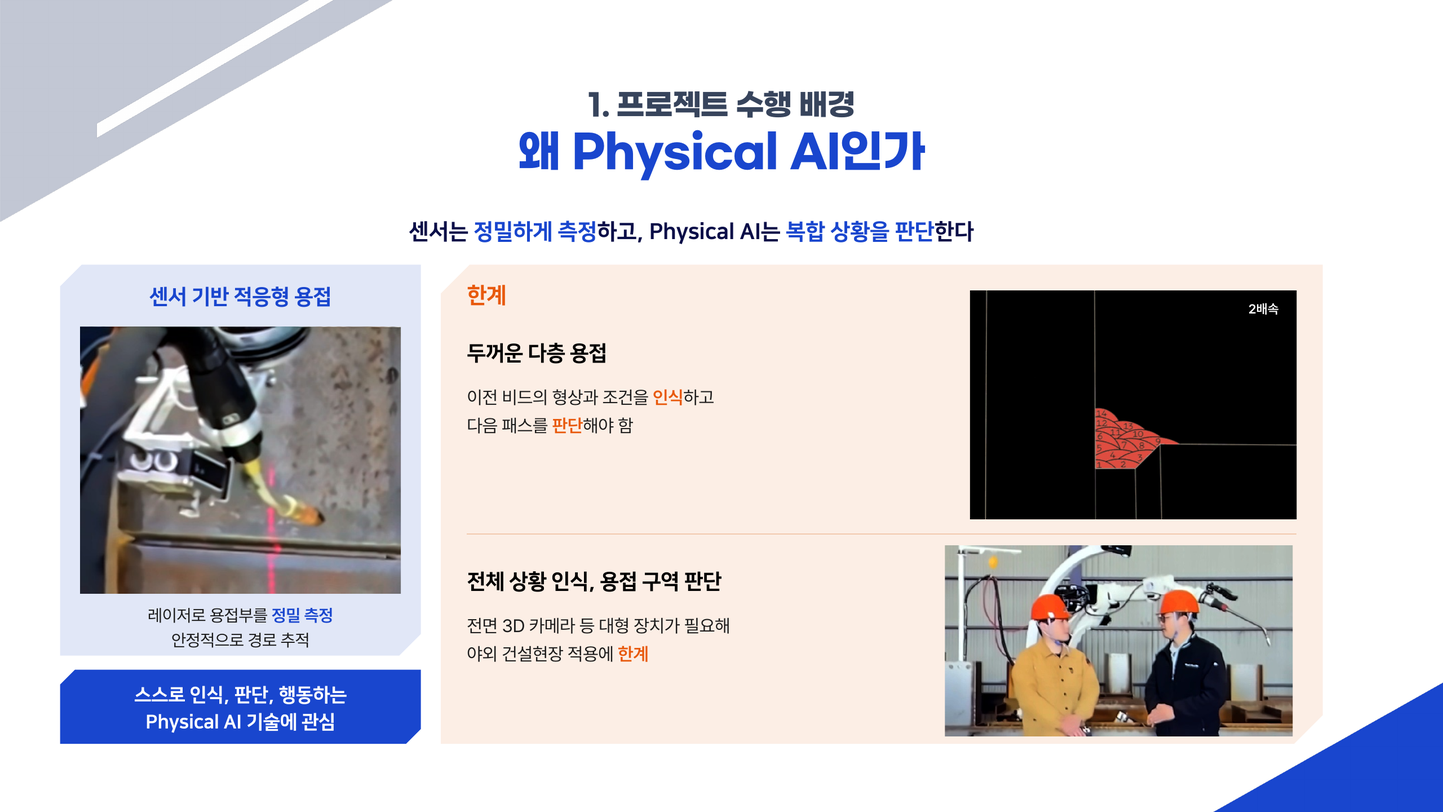
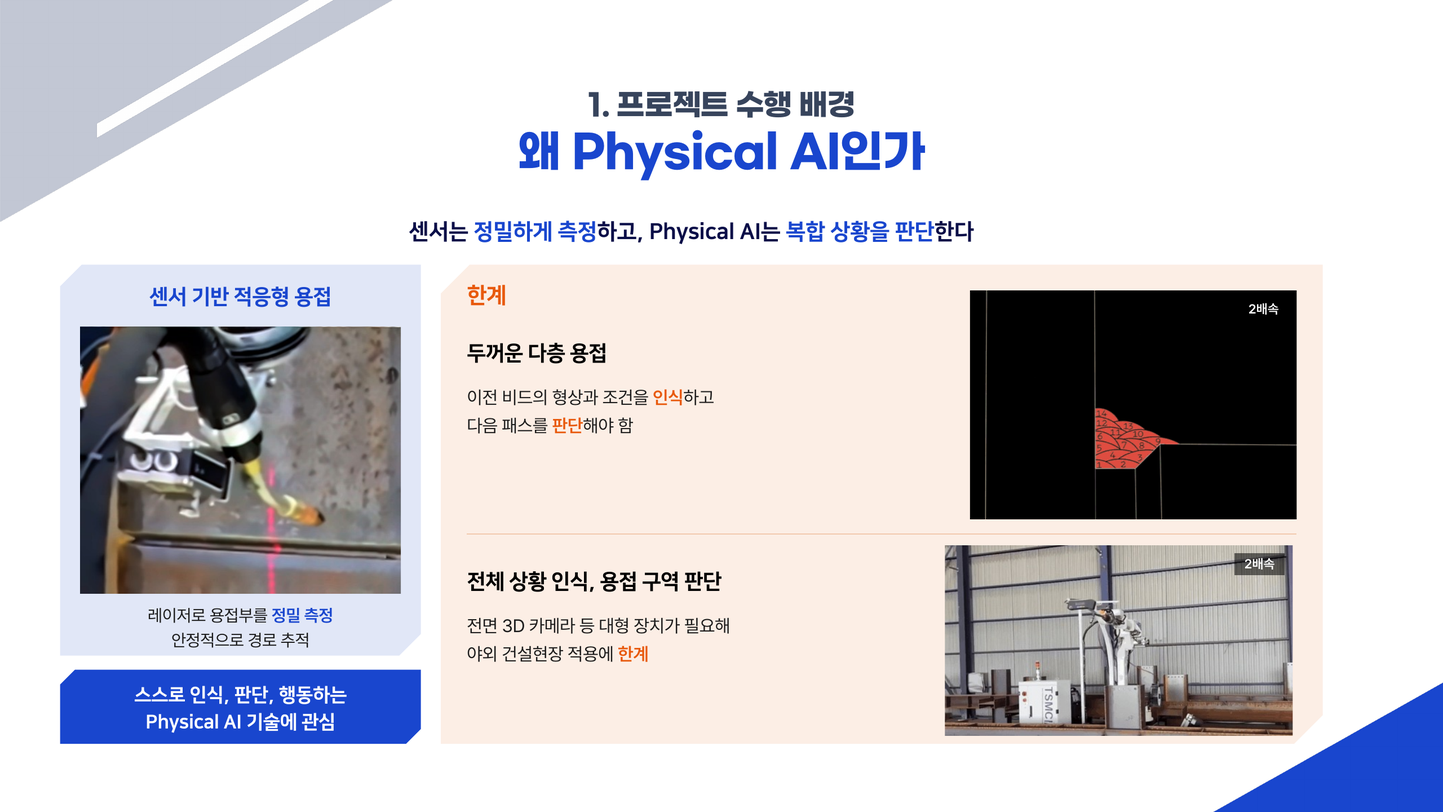
수행 배경 장에 원본 영상 4개 더 (GIF), 웹 영상은 모두 GIF 자동 재생, 마지막 장 QR 뺌
3장 고령화 뉴스, 4장 철골 접합부 고소 용접, 5장 KOWELD 자동 용접기, 7장 공장 로봇 인터뷰.
누르면 재생하던 영상은 다시 GIF로 되돌림.

Changed region(s): [[0.6562, 0.6562, 0.9062, 0.9062]]

diff --git a/index.html b/index.html
@@ -58,74 +58,87 @@
 </head>
 <body>
 <main class="stage" id="stage">
-  <img class="slide" src="deck/final/01.png?v=11131328" alt="2026 IRC 지능로봇대회 매니퓰레이터 종목. 거친 현장의 혁신. 숙련 용접사 패턴을 모사한 강구조물 용접 로봇. 팀 뉴트로 아크: 손태산, 김광빈, 김동희, 왕혜영">
-  <img class="slide" src="deck/final/02.png?v=11131328" alt="목차" loading="lazy">
+  <img class="slide" src="deck/final/01.png?v=11131356" alt="2026 IRC 지능로봇대회 매니퓰레이터 종목. 거친 현장의 혁신. 숙련 용접사 패턴을 모사한 강구조물 용접 로봇. 팀 뉴트로 아크: 손태산, 김광빈, 김동희, 왕혜영">
+  <img class="slide" src="deck/final/02.png?v=11131356" alt="목차" loading="lazy">
   <!-- PPT 3장(프로젝트 개요)은 웹에서 뺌 (11-13). deck/final 그림 번호는 PPT 장 번호와 같게 남겨 둠 -->
-  <img class="slide" src="deck/final/04.png?v=11131328" alt="1. 프로젝트 수행 배경: 정밀 특수공정 용접의 품질, 인력, 안전 위기. WPS 필수 제어 변수 20개 이상, 숙련 의존 정밀공정, 연령별 인력(20대 11만, 30대 27만, 40대 45만, 50대 65만, 60대 이상 46만), 용접사 평균 55세, 시공 부실과 안전 사고" loading="lazy">
-  <img class="slide" src="deck/final/05.png?v=11131328" alt="1. 프로젝트 수행 배경: 강재 적용 확대와 현장 용접 경쟁력. 고부가가치 강재 개발, 현장 용접과 시공성 확보, 적용 경쟁력 향상, 강재 적용시장 확대. 강교량 강주탑 단면도와 BOX, 강구조 건축 벽체 현장 용접 사진" loading="lazy">
   <div class="slide">
-    <img src="deck/final/06.png?v=11131328" alt="1. 프로젝트 수행 배경: 건설·조선 현장 자동 용접의 현재 기술. 수직 타워 레일식(상용화), 수평 타워 레일식(현장 적용), 원자력 압력배관 오비탈 용접(현장 적용), 수직 자동 TIG(개발 진행 중)" loading="lazy">
-    <!-- PPT 6장 사진 자리에 올린 원본 영상 2배속 GIF (fill_deck.py gif()가 기록한 자리, 1440×810pt 기준) -->
-    <video class="clip" style="left:40.8320%; top:35.6790%; width:16.0197%; height:21.9753%;" src="deck/vid/bg_vrail.mp4?v=11131328" poster="deck/vid/bg_vrail.jpg?v=11131328" preload="auto" muted playsinline loop aria-label="수직 타워 레일식 자동용접 영상, 2배속"></video>
+    <img src="deck/final/04.png?v=11131356" alt="1. 프로젝트 수행 배경: 정밀 특수공정 용접의 품질, 인력, 안전 위기. WPS 필수 제어 변수 20개 이상, 숙련 의존 정밀공정, 고령화와 인력난 뉴스 영상, 용접사 평균 55세, 시공 부실과 안전 사고" loading="lazy">
+    <!-- PPT 4장 사진 자리에 올린 원본 영상 GIF (자리는 fill_deck.py gif()가 기록, 1440×810pt 기준) -->
+    <img class="clip" style="left:35.2778%; top:44.6914%; width:25.2778%; height:22.7160%;" src="deck/img/bg_news.gif?v=11131356" alt="고령화와 인력난 뉴스, 용접의 자동화 영상" loading="lazy">
+  </div>
+  <div class="slide">
+    <img src="deck/final/05.png?v=11131356" alt="1. 프로젝트 수행 배경: 강재 적용 확대와 현장 용접 경쟁력. 고부가가치 강재 개발, 현장 용접과 시공성 확보, 적용 경쟁력 향상, 강재 적용시장 확대. 강교량 강주탑 단면도와 BOX, 강구조 건축 철골 접합부 고소 현장 용접 영상" loading="lazy">
+    <!-- PPT 5장 사진 자리에 올린 원본 영상 GIF (자리는 fill_deck.py gif()가 기록, 1440×810pt 기준) -->
+    <img class="clip" style="left:53.0061%; top:36.2963%; width:28.1409%; height:29.1358%;" src="deck/img/bg_beam.gif?v=11131356" alt="고소작업대 위에서 철골 접합부를 용접하는 영상, 2배속" loading="lazy">
+    <span class="tag" style="left:77.1192%; top:37.2840%; width:3.4722%; height:2.7160%;">2배속</span>
+  </div>
+  <div class="slide">
+    <img src="deck/final/06.png?v=11131356" alt="1. 프로젝트 수행 배경: 건설·조선 현장 자동 용접의 현재 기술. 수직 타워 레일식(상용화), 수평 타워 레일식(현장 적용), 원자력 압력배관 오비탈 용접(현장 적용), 수직 자동 TIG(개발 진행 중)" loading="lazy">
+    <!-- PPT 6장 사진 자리에 올린 원본 영상 GIF (자리는 fill_deck.py gif()가 기록, 1440×810pt 기준) -->
+    <img class="clip" style="left:40.8320%; top:35.6790%; width:16.0197%; height:21.9753%;" src="deck/img/bg_vrail.gif?v=11131356" alt="수직 타워 레일식 자동용접 영상, 2배속" loading="lazy">
+    <img class="clip" style="left:74.4771%; top:34.5679%; width:14.5874%; height:24.1975%;" src="deck/img/bg_kowel.gif?v=11131356" alt="KOWELD 전시의 레일 주행 자동 용접기 영상, 2배속" loading="lazy">
     <span class="tag" style="left:52.8239%; top:36.6667%; width:3.4722%; height:2.7160%;">2배속</span>
+    <span class="tag" style="left:85.0368%; top:35.5556%; width:3.4722%; height:2.7160%;">2배속</span>
   </div>
-  <img class="slide" src="deck/final/07.png?v=11131328" alt="1. 프로젝트 수행 배경: 센서 기반 적응형(Adaptive) 용접으로 발전. 레이저 센싱, 형상 측정, 경로 보정, 정밀 용접. 협동로봇과 레이저 센서, 레일식 수직 자동용접 현장 사진" loading="lazy">
+  <img class="slide" src="deck/final/07.png?v=11131356" alt="1. 프로젝트 수행 배경: 센서 기반 적응형(Adaptive) 용접으로 발전. 레이저 센싱, 형상 측정, 경로 보정, 정밀 용접. 협동로봇과 레이저 센서, 레일식 수직 자동용접 현장 사진" loading="lazy">
   <div class="slide">
-    <img src="deck/final/08.png?v=11131328" alt="1. 프로젝트 수행 배경: 왜 Physical AI인가. 센서는 정밀하게 측정하고 Physical AI는 복합 상황을 판단. 한계는 두꺼운 다층 용접의 다음 패스 판단, 전체 상황 인식과 용접 구역 판단" loading="lazy">
-    <!-- PPT 8장 사진 자리에 올린 원본 영상 2배속 GIF (fill_deck.py gif()가 기록한 자리, 1440×810pt 기준) -->
-    <video class="clip" style="left:67.2222%; top:35.8025%; width:22.6389%; height:28.1481%;" src="deck/vid/bg_multipass.mp4?v=11131328" poster="deck/vid/bg_multipass.jpg?v=11131328" preload="auto" muted playsinline loop aria-label="두꺼운 판의 다층 용접 설명 영상, 비드를 층층이 쌓는 과정, 2배속"></video>
+    <img src="deck/final/08.png?v=11131356" alt="1. 프로젝트 수행 배경: 왜 Physical AI인가. 센서는 정밀하게 측정하고 Physical AI는 복합 상황을 판단. 한계는 두꺼운 다층 용접의 다음 패스 판단, 전체 상황 인식과 용접 구역 판단" loading="lazy">
+    <!-- PPT 8장 사진 자리에 올린 원본 영상 GIF (자리는 fill_deck.py gif()가 기록, 1440×810pt 기준) -->
+    <img class="clip" style="left:67.2222%; top:35.8025%; width:22.6389%; height:28.1481%;" src="deck/img/bg_multipass.gif?v=11131356" alt="두꺼운 판의 다층 용접 설명 영상, 비드를 층층이 쌓는 과정, 2배속" loading="lazy">
+    <img class="clip" style="left:65.4861%; top:67.1605%; width:24.0972%; height:23.4568%;" src="deck/img/bg_men.gif?v=11131356" alt="공장 용접 로봇과 두 사람의 인터뷰 영상, 2배속" loading="lazy">
     <span class="tag" style="left:85.8333%; top:36.7901%; width:3.4722%; height:2.7160%;">2배속</span>
+    <span class="tag" style="left:85.5556%; top:68.1481%; width:3.4722%; height:2.7160%;">2배속</span>
   </div>
   <div class="slide">
-    <img src="deck/final/09.png?v=11131328" alt="1. 프로젝트 수행 배경: Physical AI, 이제 건설현장으로. 기존 VLA 연구는 정형화된 실내 환경, 우리가 도전하는 건설현장은 비정형 강구조물 용접. 열악한 환경, 기술개발의 사각지대" loading="lazy">
-    <!-- PPT 9장 사진 자리에 올린 원본 영상 2배속 GIF (fill_deck.py gif()가 기록한 자리, 1440×810pt 기준) -->
-    <video class="clip" style="left:7.6389%; top:39.2593%; width:36.1111%; height:27.1605%;" src="deck/vid/bg_vla.mp4?v=11131328" poster="deck/vid/bg_vla.jpg?v=11131328" preload="auto" muted playsinline loop aria-label="기존 VLA 로봇 행동학습 연구 영상, 2배속"></video>
-    <video class="clip" style="left:69.4444%; top:39.2593%; width:20.2083%; height:41.4815%;" src="deck/vid/bg_site.mp4?v=11131328" poster="deck/vid/bg_site.jpg?v=11131328" preload="auto" muted playsinline loop aria-label="사다리 위에서 강구조물을 용접하는 건설현장 영상, 2배속"></video>
+    <img src="deck/final/09.png?v=11131356" alt="1. 프로젝트 수행 배경: Physical AI, 이제 건설현장으로. 기존 VLA 연구는 정형화된 실내 환경, 우리가 도전하는 건설현장은 비정형 강구조물 용접. 열악한 환경, 기술개발의 사각지대" loading="lazy">
+    <!-- PPT 9장 사진 자리에 올린 원본 영상 GIF (자리는 fill_deck.py gif()가 기록, 1440×810pt 기준) -->
+    <img class="clip" style="left:7.6389%; top:39.2593%; width:36.1111%; height:27.1605%;" src="deck/img/bg_vla.gif?v=11131356" alt="기존 VLA 로봇 행동학습 연구 영상, 2배속" loading="lazy">
+    <img class="clip" style="left:69.4444%; top:39.2593%; width:20.2083%; height:41.4815%;" src="deck/img/bg_site.gif?v=11131356" alt="사다리 위에서 강구조물을 용접하는 건설현장 영상, 2배속" loading="lazy">
     <span class="tag" style="left:39.7222%; top:40.2469%; width:3.4722%; height:2.7160%;">2배속</span>
     <span class="tag" style="left:85.6250%; top:40.2469%; width:3.4722%; height:2.7160%;">2배속</span>
   </div>
   <!-- PPT 10장(숙련 기술의 단절과 기존 자동용접의 한계), 11장(프로젝트 수행 필요성)은 웹에서 뺌 (11-13) -->
   <div class="slide">
-    <img src="deck/final/12.png?v=11131328" alt="2. 개발 목표 및 차별성: 룰 베이스를 넘어 숙련 행동 학습으로. OPTi3 용접로봇 전시 시연과 실제 아크 용접 영상, 기존 룰 베이스와 본 프로젝트 비교, 최종 개발 목표" loading="lazy">
+    <img src="deck/final/12.png?v=11131356" alt="2. 개발 목표 및 차별성: 룰 베이스를 넘어 숙련 행동 학습으로. OPTi3 용접로봇 전시 시연과 실제 아크 용접 영상, 기존 룰 베이스와 본 프로젝트 비교, 최종 개발 목표" loading="lazy">
     <!-- PPT 12장 영상 자리(x 60/468, y 270, 392×294pt / 1440×810pt)에 맞춰 올린 6초~20초 구간 GIF -->
-    <video class="clip" style="left:4.1667%; top:33.333%; width:27.222%; height:36.296%;" src="deck/vid/opti3_demo.mp4?v=11131328" poster="deck/vid/opti3_demo.jpg?v=11131328" preload="auto" muted playsinline loop aria-label="OPTi3 전시 시연 6초에서 20초 구간"></video>
-    <video class="clip" style="left:32.5%; top:33.333%; width:27.222%; height:36.296%;" src="deck/vid/opti3_arc.mp4?v=11131328" poster="deck/vid/opti3_arc.jpg?v=11131328" preload="auto" muted playsinline loop aria-label="OPTi3 실제 아크 용접 6초에서 20초 구간"></video>
+    <img class="clip" style="left:4.1667%; top:33.333%; width:27.222%; height:36.296%;" src="deck/img/opti3_demo.gif?v=11131356" alt="OPTi3 전시 시연 6초에서 20초 구간" loading="lazy">
+    <img class="clip" style="left:32.5%; top:33.333%; width:27.222%; height:36.296%;" src="deck/img/opti3_arc.gif?v=11131356" alt="OPTi3 실제 아크 용접 6초에서 20초 구간" loading="lazy">
   </div>
-  <img class="slide" src="deck/final/13.png?v=11131328" alt="3. 개발 대상 및 자율 작업 시나리오: 수평 접합선에 대응하는 자율용접 작업 구현. 3면 직각 시편과 T형 필릿 시편" loading="lazy">
-  <img class="slide" src="deck/final/14.png?v=11131328" alt="4. 시스템 구성 및 하드웨어 설계: 자율용접 로봇 시스템 아키텍처. 영상은 V4L2로 캡처해 ZMQ로 나눠 주고, YOLO가 판 종류를 판정해 ACT 정책을 고르며 용접선 끝점을 표시함. 그 영상과 손목 영상으로 ACT 정책이 다음 동작을 냄. 손 검출 시 정지, 진행 표시와 영상은 FastAPI 웹 대시보드로" loading="lazy">
-  <img class="slide" src="deck/final/15.png?v=11131328" alt="4. 시스템 구성 및 하드웨어 설계: 역할을 나눈 세 가지 AI. YOLO 용접선 검출(판 종류 판정과 정책 선택, 끝점 표시), ACT 모방학습(포스코이앤씨 손태산 용접기술사가 텔레오퍼레이션으로 쌓은 용접 행동 데이터로 학습, 판 종류별 정책으로 제어), 손 검출 인터록(안전)" loading="lazy">
-  <img class="slide" src="deck/final/16.png?v=11131328" alt="4. 시스템 구성 및 하드웨어 설계: 하드웨어 설계. SolidWorks 조립 기반 6축 매니퓰레이터와 레이저 엔드이펙터 렌더, 엔드이펙터 CAD, 매니퓰레이터, 엔드이펙터, 카메라, 개선 내용" loading="lazy">
-  <img class="slide" src="deck/final/17.png?v=11131328" alt="4. 시스템 구성 및 하드웨어 설계: 직접 개선한 기술. 엔드이펙터 설계 변천 v1, v2, v3, 최종 레이저 일체형" loading="lazy">
+  <img class="slide" src="deck/final/13.png?v=11131356" alt="3. 개발 대상 및 자율 작업 시나리오: 수평 접합선에 대응하는 자율용접 작업 구현. 3면 직각 시편과 T형 필릿 시편" loading="lazy">
+  <img class="slide" src="deck/final/14.png?v=11131356" alt="4. 시스템 구성 및 하드웨어 설계: 자율용접 로봇 시스템 아키텍처. 영상은 V4L2로 캡처해 ZMQ로 나눠 주고, YOLO가 판 종류를 판정해 ACT 정책을 고르며 용접선 끝점을 표시함. 그 영상과 손목 영상으로 ACT 정책이 다음 동작을 냄. 손 검출 시 정지, 진행 표시와 영상은 FastAPI 웹 대시보드로" loading="lazy">
+  <img class="slide" src="deck/final/15.png?v=11131356" alt="4. 시스템 구성 및 하드웨어 설계: 역할을 나눈 세 가지 AI. YOLO 용접선 검출(판 종류 판정과 정책 선택, 끝점 표시), ACT 모방학습(포스코이앤씨 손태산 용접기술사가 텔레오퍼레이션으로 쌓은 용접 행동 데이터로 학습, 판 종류별 정책으로 제어), 손 검출 인터록(안전)" loading="lazy">
+  <img class="slide" src="deck/final/16.png?v=11131356" alt="4. 시스템 구성 및 하드웨어 설계: 하드웨어 설계. SolidWorks 조립 기반 6축 매니퓰레이터와 레이저 엔드이펙터 렌더, 엔드이펙터 CAD, 매니퓰레이터, 엔드이펙터, 카메라, 개선 내용" loading="lazy">
+  <img class="slide" src="deck/final/17.png?v=11131356" alt="4. 시스템 구성 및 하드웨어 설계: 직접 개선한 기술. 엔드이펙터 설계 변천 v1, v2, v3, 최종 레이저 일체형" loading="lazy">
   <div class="slide">
-    <img src="deck/final/18.png?v=11131328" alt="5. 실시간 작업 모니터링: 웹 대시보드로 보는 영상과 로봇 상태" loading="lazy">
+    <img src="deck/final/18.png?v=11131356" alt="5. 실시간 작업 모니터링: 웹 대시보드로 보는 영상과 로봇 상태" loading="lazy">
     <!-- PPT 18장 대시보드 카메라 칸에 올린 실제 화면 녹화 GIF(코너 시편, 3배속) -->
-    <video class="clip" style="left:4.7222%; top:35.0617%; width:25.9722%; height:25.9259%;" src="deck/vid/corner_dash_top.mp4?v=11131328" poster="deck/vid/corner_dash_top.jpg?v=11131328" preload="auto" muted playsinline loop aria-label="상단 카메라 실제 화면. 코너 시편 용접선 두 개가 파란색에서 빨간색으로 바뀜, 3배속"></video>
-    <video class="clip" style="left:31.8056%; top:35.0617%; width:25.9722%; height:25.9259%;" src="deck/vid/corner_dash_wrist.mp4?v=11131328" poster="deck/vid/corner_dash_wrist.jpg?v=11131328" preload="auto" muted playsinline loop aria-label="손목 카메라 실제 화면. 시편 위 초록 레이저 점, 3배속"></video>
+    <img class="clip" style="left:4.7222%; top:35.0617%; width:25.9722%; height:25.9259%;" src="deck/img/corner_dash_top.gif?v=11131356" alt="상단 카메라 실제 화면. 코너 시편 용접선 두 개가 파란색에서 빨간색으로 바뀜, 3배속" loading="lazy">
+    <img class="clip" style="left:31.8056%; top:35.0617%; width:25.9722%; height:25.9259%;" src="deck/img/corner_dash_wrist.gif?v=11131356" alt="손목 카메라 실제 화면. 시편 위 초록 레이저 점, 3배속" loading="lazy">
     <span class="camlabel" style="left:4.7222%; top:57.5309%; width:25.9722%; height:3.4568%;">상단 카메라<b>LIVE</b></span>
     <span class="camlabel" style="left:31.8056%; top:57.5309%; width:25.9722%; height:3.4568%;">손목 카메라<b>LIVE</b></span>
     <span class="tag" style="left:26.6667%; top:36.0494%; width:3.4722%; height:2.7160%;">3배속</span>
     <span class="tag" style="left:53.7500%; top:36.0494%; width:3.4722%; height:2.7160%;">3배속</span>
   </div>
   <div class="slide">
-    <img src="deck/final/19.png?v=11131328" alt="5. 실시간 작업 모니터링: YOLO 용접선 검출과 진행 표시, 성공 판정 기준" loading="lazy">
+    <img src="deck/final/19.png?v=11131356" alt="5. 실시간 작업 모니터링: YOLO 용접선 검출과 진행 표시, 성공 판정 기준" loading="lazy">
     <!-- PPT 19장 가운데 칸(진행 중)에 올린 2배속 GIF -->
-    <video class="clip" style="left:34.0278%; top:28.1481%; width:27.7778%; height:37.0370%;" src="deck/vid/t_yolo_progress.mp4?v=11131328" poster="deck/vid/t_yolo_progress.jpg?v=11131328" preload="auto" muted playsinline loop aria-label="T자 시편 상단 카메라 화면. 레이저가 지나간 구간의 용접선이 파란색에서 빨간색으로 바뀜, 2배속"></video>
+    <img class="clip" style="left:34.0278%; top:28.1481%; width:27.7778%; height:37.0370%;" src="deck/img/t_yolo_progress.gif?v=11131356" alt="T자 시편 상단 카메라 화면. 레이저가 지나간 구간의 용접선이 파란색에서 빨간색으로 바뀜, 2배속" loading="lazy">
     <span class="tag" style="left:57.7778%; top:29.1358%; width:3.4722%; height:2.7160%;">2배속</span>
   </div>
-  <img class="slide" src="deck/final/20.png?v=11131328" alt="5. 실시간 작업 모니터링: YOLO 추론 최적화로 2.1배 가속. PyTorch에서 ONNX, TensorRT FP16 변환, 1회 추론 시간 중앙값 8.1 ms에서 3.8 ms, 정확도 유지, ACT 정책 변환 예정" loading="lazy">
-  <img class="slide" src="deck/final/21.png?v=11131328" alt="6. ACT 기반 모방학습 및 자율 제어: 용접기술사의 텔레오퍼레이션에서 자율 실행까지. 용접기술사가 텔레오퍼레이션으로 직접 쌓은 용접 행동 데이터로 학습. 텔레오퍼레이션, 기록, 판 종류별 ACT 학습, 자율 실행. ACT는 동작을 묶음으로 예측" loading="lazy">
+  <img class="slide" src="deck/final/20.png?v=11131356" alt="5. 실시간 작업 모니터링: YOLO 추론 최적화로 2.1배 가속. PyTorch에서 ONNX, TensorRT FP16 변환, 1회 추론 시간 중앙값 8.1 ms에서 3.8 ms, 정확도 유지, ACT 정책 변환 예정" loading="lazy">
+  <img class="slide" src="deck/final/21.png?v=11131356" alt="6. ACT 기반 모방학습 및 자율 제어: 용접기술사의 텔레오퍼레이션에서 자율 실행까지. 용접기술사가 텔레오퍼레이션으로 직접 쌓은 용접 행동 데이터로 학습. 텔레오퍼레이션, 기록, 판 종류별 ACT 학습, 자율 실행. ACT는 동작을 묶음으로 예측" loading="lazy">
   <div class="slide">
-    <img src="deck/final/22.png?v=11131328" alt="7. 자율 용접 시연: 임의 배치 시편 자율용접 시연. T자 필릿 시편과 3면 직각 코너 시편 영상(2배속), 시연 확인 항목 8개" loading="lazy">
+    <img src="deck/final/22.png?v=11131356" alt="7. 자율 용접 시연: 임의 배치 시편 자율용접 시연. T자 필릿 시편과 3면 직각 코너 시편 영상(2배속), 시연 확인 항목 8개" loading="lazy">
     <!-- PPT 22장 시연 영상 자리(1440×810pt 기준)에 올린 2배속 GIF와 배속 표시 -->
-    <video class="clip" style="left:4.7455%; top:29.8765%; width:29.8379%; height:55.4321%;" src="deck/vid/t_demo.mp4?v=11131328" poster="deck/vid/t_demo.jpg?v=11131328" preload="auto" muted playsinline loop aria-label="T자 필릿 시편 자율용접 시연, 2배속"></video>
-    <video class="clip" style="left:36.2500%; top:29.8765%; width:29.8379%; height:55.4321%;" src="deck/vid/corner_demo.mp4?v=11131328" poster="deck/vid/corner_demo.jpg?v=11131328" preload="auto" muted playsinline loop aria-label="3면 직각 코너 시편 자율용접 시연, 2배속"></video>
+    <img class="clip" style="left:4.7455%; top:29.8765%; width:29.8379%; height:55.4321%;" src="deck/img/t_demo.gif?v=11131356" alt="T자 필릿 시편 자율용접 시연, 2배속" loading="lazy">
+    <img class="clip" style="left:36.2500%; top:29.8765%; width:29.8379%; height:55.4321%;" src="deck/img/corner_demo.gif?v=11131356" alt="3면 직각 코너 시편 자율용접 시연, 2배속" loading="lazy">
     <span class="tag" style="left:30.5556%; top:30.8642%; width:3.4722%; height:2.7160%;">2배속</span>
     <span class="tag" style="left:62.0601%; top:30.8642%; width:3.4722%; height:2.7160%;">2배속</span>
   </div>
-  <img class="slide" src="deck/final/23.png?v=11131328" alt="7. 자율 용접 시연: 성공 판정 기준. 시편 인식, 시작점 접근, 토치 거리 유지, 레이저 ON, 용접선 추종, 종료점 도달, 레이저 OFF, 원위치 복귀의 8개 항목을 모두 통과해야 성공. 용접선 추종은 경로 이탈 5mm 이하와 용접선의 90% 이상이 빨간색으로 바뀌는 것" loading="lazy">
-  <img class="slide" src="deck/final/24.png?v=11131328" alt="7. 자율 용접 시연: 시연 결과. 학습한 배치 40회 중 39회(97.5%), 처음 보는 배치 40회 중 37회(92.5%) 성공. 성공 기준은 8개 판정 항목을 모두 통과한 시도. 인터록 반응 시간 최대 약 100 ms(계산값)" loading="lazy">
-  <img class="slide" src="deck/final/25.png?v=11131328" alt="8. 결론 및 향후 과제" loading="lazy">
-  <img class="slide" src="deck/final/26.png?v=11131328" alt="8. 결론 및 향후 과제: 한계점과 향후 과제, 홈페이지 QR 코드" loading="lazy">
+  <img class="slide" src="deck/final/23.png?v=11131356" alt="7. 자율 용접 시연: 성공 판정 기준. 시편 인식, 시작점 접근, 토치 거리 유지, 레이저 ON, 용접선 추종, 종료점 도달, 레이저 OFF, 원위치 복귀의 8개 항목을 모두 통과해야 성공. 용접선 추종은 경로 이탈 5mm 이하와 용접선의 90% 이상이 빨간색으로 바뀌는 것" loading="lazy">
+  <img class="slide" src="deck/final/24.png?v=11131356" alt="7. 자율 용접 시연: 시연 결과. 학습한 배치 40회 중 39회(97.5%), 처음 보는 배치 40회 중 37회(92.5%) 성공. 성공 기준은 8개 판정 항목을 모두 통과한 시도. 인터록 반응 시간 최대 약 100 ms(계산값)" loading="lazy">
+  <img class="slide" src="deck/final/25.png?v=11131356" alt="8. 결론 및 향후 과제" loading="lazy">
+  <img class="slide" src="deck/final/26.png?v=11131356" alt="8. 결론 및 향후 과제: 한계점과 향후 과제" loading="lazy">
 </main>
 
 <div class="bar">

diff --git a/project.html b/project.html
@@ -102,7 +102,7 @@
   <h2><small>01</small>무엇을 만들었나</h2>
   <div class="two">
     <figure>
-      <img class="tall" src="project/img/robot_corner_laser.jpg?v=11131328" alt="자체 제작 6축 로봇이 코너 시편의 용접선을 초록 레이저로 따라가는 장면" loading="lazy">
+      <img class="tall" src="project/img/robot_corner_laser.jpg?v=11131356" alt="자체 제작 6축 로봇이 코너 시편의 용접선을 초록 레이저로 따라가는 장면" loading="lazy">
       <figcaption>코너 시편의 용접선을 레이저로 따라가는 자체 제작 6축 로봇</figcaption>
     </figure>
     <div>
@@ -126,7 +126,7 @@
 <section id="system">
   <h2><small>02</small>시스템 구성</h2>
   <figure>
-    <img src="project/img/architecture.png?v=11131328" alt="시스템 구성도. 카메라 영상은 V4L2로 캡처해 ZMQ로 나눠 줌. YOLO가 판 종류를 판정해 ACT 정책을 고르고 용접선 끝점을 표시하며, 그 영상과 손목 카메라 영상이 ACT 정책으로 들어감. 정책의 목표 관절값이 서보 제어를 거쳐 6축 매니퓰레이터와 엔드이펙터로 전달됨. 손 검출 시 정지, 진행 표시와 영상은 FastAPI 웹 대시보드로 전송" loading="lazy">
+    <img src="project/img/architecture.png?v=11131356" alt="시스템 구성도. 카메라 영상은 V4L2로 캡처해 ZMQ로 나눠 줌. YOLO가 판 종류를 판정해 ACT 정책을 고르고 용접선 끝점을 표시하며, 그 영상과 손목 카메라 영상이 ACT 정책으로 들어감. 정책의 목표 관절값이 서보 제어를 거쳐 6축 매니퓰레이터와 엔드이펙터로 전달됨. 손 검출 시 정지, 진행 표시와 영상은 FastAPI 웹 대시보드로 전송" loading="lazy">
   </figure>
   <ul class="plain">
     <li>카메라 2대(상단, 손목) 영상을 V4L2로 직접 캡처해 ZMQ로 여러 프로세스에 나눠 줍니다.</li>
@@ -157,7 +157,7 @@
   <h3>엔드이펙터 출력 파일</h3>
   <div class="two">
     <figure>
-      <img src="project/img/ee_cad.png?v=11131328" alt="최종 레이저 일체형 엔드이펙터 CAD. 서보와 본체, 레이저 포인터를 잡는 집게와 브래킷" loading="lazy">
+      <img src="project/img/ee_cad.png?v=11131356" alt="최종 레이저 일체형 엔드이펙터 CAD. 서보와 본체, 레이저 포인터를 잡는 집게와 브래킷" loading="lazy">
       <figcaption>최종 레이저 일체형 엔드이펙터</figcaption>
     </figure>
     <div>
@@ -181,7 +181,7 @@
   <h2><small>04</small>엔드이펙터 개선 과정</h2>
   <div class="two">
     <figure>
-      <img src="project/img/ee_torch_old.jpg?v=11131328" alt="1차 설계인 OPTi3 축소 토치형 엔드이펙터 CAD. 토치 옆에 레이저와 서보가 달려 있음" loading="lazy">
+      <img src="project/img/ee_torch_old.jpg?v=11131356" alt="1차 설계인 OPTi3 축소 토치형 엔드이펙터 CAD. 토치 옆에 레이저와 서보가 달려 있음" loading="lazy">
       <figcaption>1차 설계: OPTi3 축소 토치형 (토치 단축, 레이저 후퇴 적용 후)</figcaption>
     </figure>
     <div>
@@ -262,26 +262,26 @@
   <p class="lead">임의로 놓은 시편을 로봇이 스스로 찾아 용접선을 따라가는 장면입니다. 휴대폰으로 찍은 영상을 2배속 GIF로 줄였습니다.</p>
   <div class="two">
     <figure>
-      <img src="deck/img/t_demo.gif?v=11131328" alt="T자 필릿 시편 자율용접 시연. 로봇이 일어나 시편에 다가가 초록 레이저로 용접선을 따라감, 2배속" loading="lazy">
+      <img src="deck/img/t_demo.gif?v=11131356" alt="T자 필릿 시편 자율용접 시연. 로봇이 일어나 시편에 다가가 초록 레이저로 용접선을 따라감, 2배속" loading="lazy">
       <figcaption>T자 필릿 시편 (2배속)</figcaption>
     </figure>
     <figure>
-      <img src="deck/img/corner_demo.gif?v=11131328" alt="3면 직각 코너 시편 자율용접 시연. 코너 안쪽 용접선을 초록 레이저로 따라감, 2배속" loading="lazy">
+      <img src="deck/img/corner_demo.gif?v=11131356" alt="3면 직각 코너 시편 자율용접 시연. 코너 안쪽 용접선을 초록 레이저로 따라감, 2배속" loading="lazy">
       <figcaption>3면 직각 코너 시편 (2배속)</figcaption>
     </figure>
   </div>
   <h3>YOLO 용접선 진행 표시 (실제 상단 카메라 화면)</h3>
   <div class="three">
     <figure>
-      <img src="project/img/yolo_before.png?v=11131328" alt="용접 전. 검출된 용접선 전체가 파란색" loading="lazy">
+      <img src="project/img/yolo_before.png?v=11131356" alt="용접 전. 검출된 용접선 전체가 파란색" loading="lazy">
       <figcaption>용접 전: 검출된 용접선 전체가 파란색</figcaption>
     </figure>
     <figure>
-      <img src="deck/img/t_yolo_progress.gif?v=11131328" alt="진행 중. 레이저가 지나간 구간만 빨간색으로 바뀜, 2배속" loading="lazy">
+      <img src="deck/img/t_yolo_progress.gif?v=11131356" alt="진행 중. 레이저가 지나간 구간만 빨간색으로 바뀜, 2배속" loading="lazy">
       <figcaption>진행 중: 레이저가 지나간 구간만 빨간색 (2배속)</figcaption>
     </figure>
     <figure>
-      <img src="project/img/yolo_done.png?v=11131328" alt="완료. 용접선 전 구간이 빨간색" loading="lazy">
+      <img src="project/img/yolo_done.png?v=11131356" alt="완료. 용접선 전 구간이 빨간색" loading="lazy">
       <figcaption>완료: 용접선 전 구간이 빨간색</figcaption>
     </figure>
   </div>
